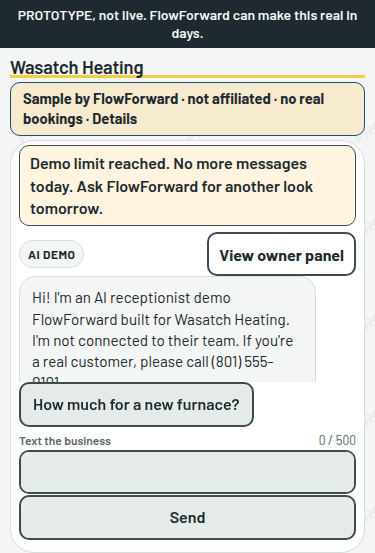
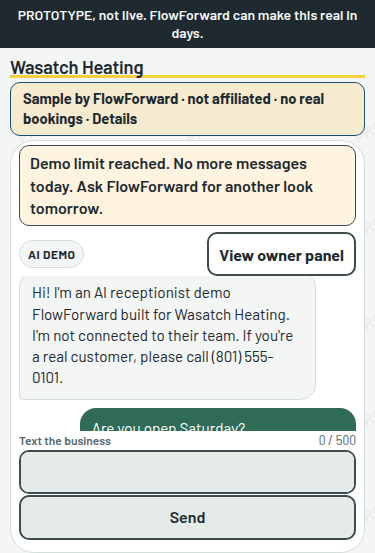
fix(web): hide suggestion chips while live chat is locked
A limit at open, a mid-chat limit, and a 503 pause drop the chip row.
Send and the composer stay. A 200 paused reply still shows the chips.

Changed region(s): [[0.0293, 0.4919, 0.968, 0.7993]]

diff --git a/web/src/live-chat/live-chat-api.test.jsx b/web/src/live-chat/live-chat-api.test.jsx
@@ -260,6 +260,7 @@ describe('live chat public API', () => {
     expect(screen.queryByText(PAUSE_MESSAGE)).toBeNull();
     expect(screen.getByLabelText('Text the business')).toBeDisabled();
     expect(screen.getByRole('button', { name: 'Send' })).toBeDisabled();
+    expect(screen.queryByRole('group', { name: 'Suggestions' })).toBeNull();
     paused.unmount();
 
     install(async (path) => {
@@ -274,7 +275,7 @@ describe('live chat public API', () => {
     expect(await screen.findByText(LIMIT_NOTICE)).toBeInTheDocument();
     expect(screen.getByLabelText('Text the business')).toBeDisabled();
     expect(screen.getByRole('button', { name: 'Send' })).toBeDisabled();
-    expect(screen.getByRole('button', { name: 'My water heater is leaking all over the garage' })).toBeDisabled();
+    expect(screen.queryByRole('group', { name: 'Suggestions' })).toBeNull();
   });
 
   it('keeps sample replies going when a turn is paused, and keeps the draft on 400 and 413', async () => {
@@ -311,6 +312,7 @@ describe('live chat public API', () => {
     expect(await screen.findByText('Here is a sample reply while the live model rests.')).toBeInTheDocument();
     expect(screen.getByText(PAUSE_MESSAGE)).toBeInTheDocument();
     expect(screen.getByLabelText('Text the business')).toBeEnabled();
+    expect(screen.getByRole('group', { name: 'Suggestions' })).toBeInTheDocument();
 
     messageStatus = 400;
     await user.type(box, 'keep this draft');
@@ -537,12 +539,15 @@ describe('live chat public API', () => {
     });
     render(<LiveChatGate />);
     const box = await screen.findByLabelText('Text the business');
+    expect(screen.getByRole('group', { name: 'Suggestions' })).toBeInTheDocument();
     await user.type(box, 'Are you open Saturday?');
     await user.click(screen.getByRole('button', { name: 'Send' }));
     expect(await screen.findByText(LIMIT_NOTICE)).toBeInTheDocument();
     expect(document.querySelector('.live-chat-bubble.is-out')).toHaveTextContent('Are you open Saturday?');
     expect(screen.getByLabelText('Text the business')).toHaveValue('');
     expect(screen.getByLabelText('Text the business')).toBeDisabled();
+    expect(screen.getByRole('button', { name: 'Send' })).toBeDisabled();
+    expect(screen.queryByRole('group', { name: 'Suggestions' })).toBeNull();
   });
 
   it('ignores a saved API address and never sends credentials', async () => {

diff --git a/web/src/live-chat/LiveChatDemo.jsx b/web/src/live-chat/LiveChatDemo.jsx
@@ -424,22 +424,23 @@ export default function LiveChatDemo({ brandInput = SAMPLE_BRAND, transport = nu
               {typing ? <p className="live-chat-typing" role="status">Typing…</p> : null}
             </div>
             <div className="live-chat-dock">
-              <div className="live-chat-chips" role="group" aria-label="Suggestions">
-                <div className="live-chat-chip-row">
-                  {unused.map((chip) => (
-                    <button
-                      key={chip.id}
-                      type="button"
-                      className="live-chat-chip"
-                      data-chip={chip.id}
-                      disabled={locked}
-                      onClick={() => pushTurn(chip.label, chip.id)}
-                    >
-                      {chip.label}
-                    </button>
-                  ))}
+              {locked ? null : (
+                <div className="live-chat-chips" role="group" aria-label="Suggestions">
+                  <div className="live-chat-chip-row">
+                    {unused.map((chip) => (
+                      <button
+                        key={chip.id}
+                        type="button"
+                        className="live-chat-chip"
+                        data-chip={chip.id}
+                        onClick={() => pushTurn(chip.label, chip.id)}
+                      >
+                        {chip.label}
+                      </button>
+                    ))}
+                  </div>
                 </div>
-              </div>
+              )}
               <div className="live-chat-compose">
                 <div className="live-chat-compose-head">
                   <label className="live-chat-label" htmlFor="live-chat-input">Text the business</label>
